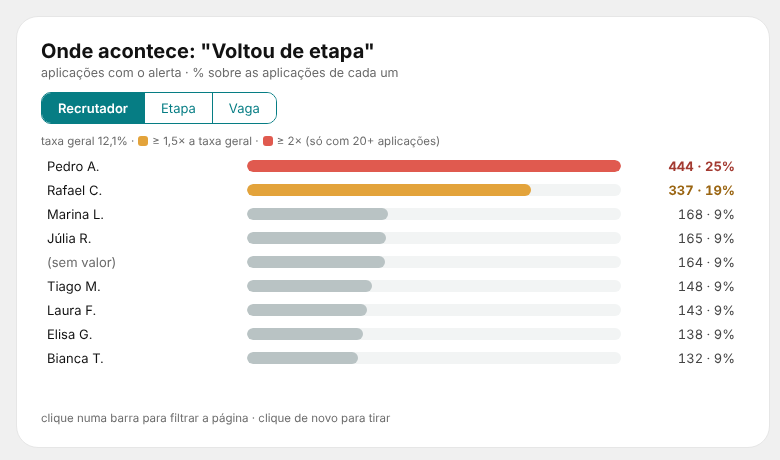
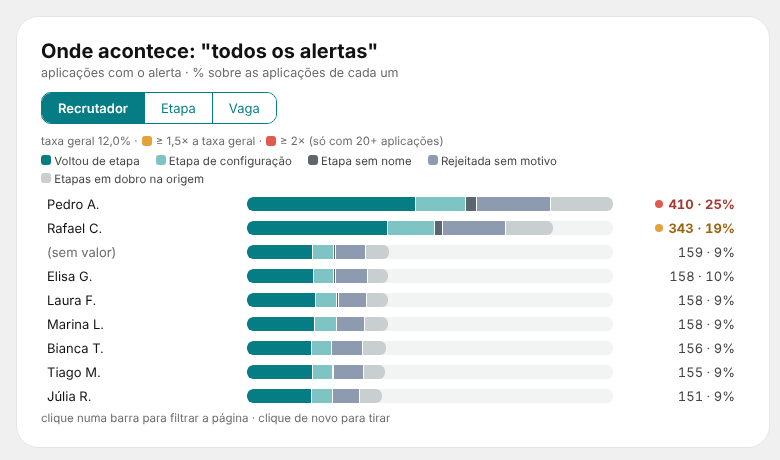
XP · Onde acontece 1.1.0: barras compostas por tipo de alerta + medidas DQ Onde Apps / Base 1x
Claude-Session: https://claude.ai/code/session_01K4TQMJzhNnUz8FWZ4bGAJu

diff --git a/visuals/xpOnde/src/visual.ts b/visuals/xpOnde/src/visual.ts
@@ -17,7 +17,8 @@ import { xpFont } from "./xpTheme";
 // Um recorte (botão): soma por valor das linhas recebidas. As medidas são contadas na linha da etapa atual
 // da aplicação, então cada aplicação cai numa combinação só e as somas por recorte batem com o DAX.
 interface Dim { title: string; queryName: string; target: Target | null; groups: Map<string, Group>; }
-interface Group { key: string; raw: PrimitiveValue; label: string; apps: number; base: number; }
+interface Group { key: string; raw: PrimitiveValue; label: string; apps: number; base: number; tipos: Map<string, number>; }
+interface Tipo { name: string; ordem: number; }
 interface Target { table: string; column: string; }
 
 const SCHEMA_BASIC = "ht" + "tp://powerbi.com/product/schema#basic";
@@ -34,6 +35,7 @@ export class Visual implements IVisual {
     private selectionManager: powerbi.extensibility.ISelectionManager;
     private dims: Dim[] = [];
     private titulo = "";
+    private tipos: Tipo[] = [];
     private dimIndex = 0;
     private dimKey = "";
     private selectedKey: string | null = null;
@@ -75,11 +77,16 @@ export class Visual implements IVisual {
     private read(dv: DataView | undefined) {
         this.dims = [];
         this.titulo = "";
+        this.tipos = [];
         const table = dv && dv.table;
         if (!table) return;
         const idx = (role: string) => table.columns.findIndex(c => c.roles && c.roles[role]);
         const dimIdx = table.columns.map((c, i) => (c.roles && c.roles.dims ? i : -1)).filter(i => i >= 0);
         const iApps = idx("apps"), iBase = idx("base"), iTit = idx("titulo");
+        // Composição: com "Tipo de alerta", cada linha traz a contagem do tipo (porTipo); total e base vêm uma vez por
+        // combinação (medidas "1x"), então somam sem repetir.
+        const iTipo = idx("tipo"), iTOrd = idx("tipoOrdem"), iPor = idx("porTipo");
+        const tipoMap = new Map<string, Tipo>();
         this.dims = dimIdx.map(i => ({
             title: clean(table.columns[i].displayName),
             queryName: table.columns[i].queryName || "",
@@ -90,17 +97,25 @@ export class Visual implements IVisual {
             if (!this.titulo && iTit >= 0 && r[iTit] !== null && r[iTit] !== undefined) this.titulo = String(r[iTit]);
             const apps = iApps >= 0 ? num(r[iApps]) : 0;
             const base = iBase >= 0 ? num(r[iBase]) : 0;
-            if (!apps && !base) continue;
+            const por = iTipo >= 0 && iPor >= 0 ? num(r[iPor]) : 0;
+            const tipo = iTipo >= 0 && !isBlank(r[iTipo]) ? String(r[iTipo]) : "";
+            if (!apps && !base && !por) continue;
+            if (tipo && por && !tipoMap.has(tipo)) {
+                const o = iTOrd >= 0 ? Number(r[iTOrd]) : NaN;
+                tipoMap.set(tipo, { name: tipo, ordem: isFinite(o) ? o : 1000 + tipoMap.size });
+            }
             dimIdx.forEach((ci, d) => {
                 const raw = r[ci];
                 const key = keyOf(raw);
                 const m = this.dims[d].groups;
                 let g = m.get(key);
-                if (!g) { g = { key, raw, label: isBlank(raw) ? BLANK : fmtValue(raw), apps: 0, base: 0 }; m.set(key, g); }
+                if (!g) { g = { key, raw, label: isBlank(raw) ? BLANK : fmtValue(raw), apps: 0, base: 0, tipos: new Map<string, number>() }; m.set(key, g); }
                 g.apps += apps;
                 g.base += base;
+                if (tipo && por) g.tipos.set(tipo, (g.tipos.get(tipo) || 0) + por);
             });
         }
+        this.tipos = Array.from(tipoMap.values()).sort((a, b) => a.ordem - b.ordem || a.name.localeCompare(b.name));
         // Mantém o botão escolhido mesmo que a ordem dos campos mude.
         const k = this.dims.findIndex(d => d.queryName === this.dimKey);
         this.dimIndex = k >= 0 ? k : Math.min(this.dimIndex, Math.max(0, this.dims.length - 1));
@@ -146,6 +161,21 @@ export class Visual implements IVisual {
         this.render();
     }
 
+    // Número à direita; na composição, o status vira um ponto âmbar/coral antes do número.
+    private valueEl(apps: number, p: number, status: string, statusColor: string): HTMLElement {
+        const v = el("span", "xp-on__v" + (status ? " is-" + status : ""));
+        if (statusColor && status) { const d = el("i", "xp-on__dot"); d.style.background = statusColor; v.appendChild(d); }
+        v.appendChild(document.createTextNode(`${INT.format(apps)} · ${PCT0.format(p)}`));
+        return v;
+    }
+
+    private tipoColor(t: Tipo): string {
+        const c = this.settings.tipos;
+        const pal = [c.t1, c.t2, c.t3, c.t4, c.t5, c.t6, c.t7].map(x => x.value.value);
+        const i = t.ordem >= 1 && t.ordem <= 7 ? t.ordem - 1 : this.tipos.indexOf(t) % pal.length;
+        return pal[i];
+    }
+
     private render() {
         const s = this.settings;
         const listOld = this.root.querySelector(".xp-on__list") as HTMLElement | null;
@@ -187,6 +217,18 @@ export class Visual implements IVisual {
             sw(s.cores.critico.value.value), document.createTextNode(` ${fmtX(r.critico.value)} (só com ${INT.format(r.minimo.value)}+ aplicações)`));
         this.root.appendChild(legend);
 
+        const comp = this.tipos.length > 1;
+        if (comp) {
+            const lt = el("div", "xp-on__types");
+            for (const t of this.tipos) {
+                const item = el("span", "xp-on__ti");
+                item.append(sw(this.tipoColor(t)), document.createTextNode(" " + t.name));
+                lt.appendChild(item);
+            }
+            lt.title = "Uma aplicação pode ter mais de um alerta: a barra divide o total na proporção de cada tipo.";
+            this.root.appendChild(lt);
+        }
+
         const list = el("div", "xp-on__list");
         list.setAttribute("role", "listbox");
         list.setAttribute("aria-label", dim.title);
@@ -202,15 +244,27 @@ export class Visual implements IVisual {
             row.tabIndex = 0;
             row.setAttribute("role", "option");
             row.setAttribute("aria-selected", String(on));
-            row.title = `${g.label}: ${INT.format(g.apps)} de ${INT.format(g.base)} aplicações (${PCT1.format(p)})`;
+            const det = this.tipos.filter(t => g.tipos.get(t.name)).map(t => `\n  ${t.name}: ${INT.format(g.tipos.get(t.name) as number)}`).join("");
+            row.title = `${g.label}: ${INT.format(g.apps)} de ${INT.format(g.base)} aplicações com alerta (${PCT1.format(p)})` + det;
             const bar = el("span", "xp-on__bar");
-            const fill = el("i", "");
+            const fill = el("i", "xp-on__fill");
             fill.style.width = ((g.apps / max) * 100).toFixed(1) + "%";
             fill.style.minWidth = "4px";
-            fill.style.background = color;
+            if (comp) {
+                // Divide o comprimento do total na proporção de cada tipo (uma aplicação pode ter mais de um).
+                const soma = this.tipos.reduce((t, x) => t + (g.tipos.get(x.name) || 0), 0);
+                for (const t of this.tipos) {
+                    const n = g.tipos.get(t.name) || 0;
+                    if (!n || !soma) continue;
+                    const part = el("b", "");
+                    part.style.width = ((n / soma) * 100).toFixed(2) + "%";
+                    part.style.background = this.tipoColor(t);
+                    fill.appendChild(part);
+                }
+            } else fill.style.background = color;
             bar.appendChild(fill);
             row.append(el("span", "xp-on__name", g.label), bar,
-                el("span", "xp-on__v" + (status ? " is-" + status : ""), `${INT.format(g.apps)} · ${PCT0.format(p)}`));
+                this.valueEl(g.apps, p, status, comp ? color : ""));
             row.addEventListener("click", () => this.chooseGroup(g));
             row.addEventListener("keydown", (e: KeyboardEvent) => { if (e.key === "Enter" || e.key === " ") { e.preventDefault(); this.chooseGroup(g); } });
             list.appendChild(row);

diff --git a/visuals/xpOnde/style/visual.less b/visuals/xpOnde/style/visual.less
@@ -20,7 +20,7 @@
 .xp-on__sw { display: inline-block; width: 10px; height: 10px; border-radius: 3px; }
 .xp-on__list { flex: 1 1 auto; overflow-y: auto; min-height: 0; padding-right: 4px; }
 .xp-on__row {
-    display: grid; grid-template-columns: minmax(110px, 190px) 1fr 104px; gap: 10px; align-items: center;
+    display: grid; grid-template-columns: minmax(110px, 190px) 1fr 112px; gap: 10px; align-items: center;
     font-size: 13px; padding: 4px 6px; border-radius: 6px; cursor: pointer;
     &:hover { background: #F7FAFA; }
     &:focus-visible { outline: 2px solid var(--xp-on-accent); outline-offset: -2px; }
@@ -29,7 +29,11 @@
     &.is-blank { cursor: default; color: #6B6B6B; }
 }
 .xp-on__name { white-space: nowrap; overflow: hidden; text-overflow: ellipsis; }
-.xp-on__bar { height: 12px; border-radius: 6px; background: #F2F4F4; overflow: hidden; i { display: block; height: 100%; border-radius: 6px; } }
+.xp-on__bar { height: 14px; border-radius: 6px; background: #F2F4F4; overflow: hidden; }
+.xp-on__fill { display: flex; height: 100%; border-radius: 6px; overflow: hidden; b { display: block; height: 100%; } b + b { border-left: 1px solid #FFFFFF; } }
+.xp-on__types { flex: none; display: flex; flex-wrap: wrap; align-items: center; gap: 4px 6px; font-size: 11.5px; color: #444444; margin-bottom: 6px; }
+.xp-on__ti { white-space: nowrap; margin-right: 10px; }
+.xp-on__dot { display: inline-block; width: 8px; height: 8px; border-radius: 50%; margin-right: 5px; vertical-align: 1px; }
 .xp-on__v { text-align: right; color: #444444; font-variant-numeric: tabular-nums; white-space: nowrap; }
 .xp-on__v.is-warn { color: #9A6512; font-weight: 700; }
 .xp-on__v.is-crit { color: #A33A31; font-weight: 700; }

diff --git a/visuals/xpOnde/src/settings.ts b/visuals/xpOnde/src/settings.ts
@@ -34,9 +34,26 @@ class CoresCard extends Card {
     slices = [this.ok, this.atencao, this.critico, this.destaque];
 }
 
+// Cor de cada tipo na composição, pela ordem de dAlerta. Família teal = processo, cinzas = dado
+// (âmbar e coral ficam livres para o status no número).
+const PALETA = ["#04585D", "#067D84", "#7FC4C4", "#5B6770", "#8E9AAF", "#B7A5D3", "#C9CFD0"];
+class TiposCard extends Card {
+    t1 = new formattingSettings.ColorPicker({ name: "t1", displayName: "Tipo 1", value: { value: PALETA[0] } });
+    t2 = new formattingSettings.ColorPicker({ name: "t2", displayName: "Tipo 2", value: { value: PALETA[1] } });
+    t3 = new formattingSettings.ColorPicker({ name: "t3", displayName: "Tipo 3", value: { value: PALETA[2] } });
+    t4 = new formattingSettings.ColorPicker({ name: "t4", displayName: "Tipo 4", value: { value: PALETA[3] } });
+    t5 = new formattingSettings.ColorPicker({ name: "t5", displayName: "Tipo 5", value: { value: PALETA[4] } });
+    t6 = new formattingSettings.ColorPicker({ name: "t6", displayName: "Tipo 6", value: { value: PALETA[5] } });
+    t7 = new formattingSettings.ColorPicker({ name: "t7", displayName: "Tipo 7", value: { value: PALETA[6] } });
+    name = "tipos";
+    displayName = "Cores dos tipos (pela ordem)";
+    slices = [this.t1, this.t2, this.t3, this.t4, this.t5, this.t6, this.t7];
+}
+
 export class OndeSettings extends Model {
     textos = new TextosCard();
     regra = new RegraCard();
     cores = new CoresCard();
-    cards = [this.textos, this.regra, this.cores];
+    tipos = new TiposCard();
+    cards = [this.textos, this.regra, this.cores, this.tipos];
 }

diff --git a/docs/46-data-quality-visuais.md b/docs/46-data-quality-visuais.md
@@ -1,7 +1,7 @@
 # 6.6b · Data Quality: visuais e posições
 
 Prévia com os números reais da conferência: `docs/mockups/46-data-quality-visuais.png` (desenho aprovado: `docs/mockups/44-data-quality.png`).
-Pacotes: `dist/XP - Card de KPI 1.3.0.pbiviz` · `dist/XP - Tipos de alerta 1.0.0.pbiviz` (novo) · `dist/XP - Onde acontece 1.0.0.pbiviz` (novo) · `dist/XP - Tabela nominal 2.1.1.pbiviz`.
+Pacotes: `dist/XP - Card de KPI 1.3.0.pbiviz` · `dist/XP - Tipos de alerta 1.0.0.pbiviz` (novo) · `dist/XP - Onde acontece 1.1.0.pbiviz` (novo) · `dist/XP - Tabela nominal 2.1.1.pbiviz`.
 
 Página **Data Quality** · 1900 × 1720 · fundo `BG - Esteiras_DataQuality.svg` · barra de filtros copiada da Nominal.
 
@@ -34,20 +34,26 @@ Cor: Status = critico → coral, atencao → âmbar (Formatar → Status muda as
    Aplicações `Esteira | Aplicações com Alerta` · % `Esteira | % com Alerta` · Status `Esteira | DQ Status`.
 4. Clicar num tipo filtra a página (Onde acontece e a tabela). Clicar de novo, ou em "× Ver todos os alertas", tira o filtro. Os cards não mudam.
 
-## 3. Onde acontece · visual nosso **XP · Onde acontece 1.0.0** (título + botões + barras num só)
-Não usa visual nativo nem parâmetro de campos (se criou o `pOnde`, pode apagar a tabela).
+## 3. Onde acontece · visual nosso **XP · Onde acontece 1.1.0** (título + botões + barras compostas por tipo)
+Antes: rodar `docs/48-onde-composicao.dax` (medidas DQ Onde Apps, DQ Onde Base 1x e o novo DQ Onde Título).
 1. Fundo: Inserir → Formas → Retângulo arredondado · X 1100 · Y 580 · L 752 · A 430 · branco, borda #E6E6E6, cantos 22.
 2. Visual por cima: **X 1124 · Y 600 · L 704 · A 390**, fundo desligado, título desligado.
 3. Campos:
    | Campo do visual | O que colocar |
    |---|---|
    | Recortes (um botão por campo) | `recruiter_name`, `dEtapa[stage_name]`, `job_name`, `esteira`, `especialidade` (nesta ordem; a ordem é a dos botões) |
-   | Aplicações com alerta | `Esteira \| Aplicações com Alerta` |
-   | Base (aplicações do recorte) | `Esteira \| DQ Onde Base` |
+   | Tipo de alerta (composição) | `dAlerta[alerta]` |
+   | Ordem do tipo | `dAlerta[ordem]` |
+   | Aplicações por tipo | `Esteira \| Aplicações com Alerta` |
+   | Aplicações com alerta (total) | `Esteira \| DQ Onde Apps` |
+   | Base (aplicações do recorte) | `Esteira \| DQ Onde Base 1x` |
    | Título | `Esteira \| DQ Onde Título` |
 4. Nome dos botões: seta do campo em Recortes → **Renomear para este visual** → Recrutador, Etapa, Vaga, Esteira, Especialidade.
-5. Formatar → Regra de cor: mínimo 20 aplicações · âmbar 1,5× · coral 2× a taxa geral (mesma regra da medida DQ Onde Status).
-6. Clicar numa barra filtra a página (a tabela mostra só aquele recrutador/etapa/vaga); clicar de novo ou "× tirar filtro" tira.
+5. Leitura: o comprimento da barra = aplicações com alerta (distintas); as cores dividem a barra na proporção de cada tipo
+   (uma aplicação pode ter mais de um). O número à direita ganha um ponto âmbar/coral quando a taxa foge da média
+   (20+ aplicações, ≥ 1,5× ou ≥ 2× a taxa geral). Passar o mouse na barra mostra a quantidade de cada tipo.
+6. Clicar numa barra filtra a página; clicar de novo ou "× tirar filtro" tira. Clicar num tipo em Tipos de alerta deixa só aquele tipo nas barras.
+7. Cores dos tipos: Formatar → Cores dos tipos (pela ordem de dAlerta). Família teal = processo, cinzas = dado.
 
 ## 4. Tabela (XP · Tabela nominal 2.1.1)
 1. Copiar a tabela da página Nominal (Ctrl+C) e colar aqui (Ctrl+V): mesmos campos e o filtro do visual `Visão Na Lista = 1`.
